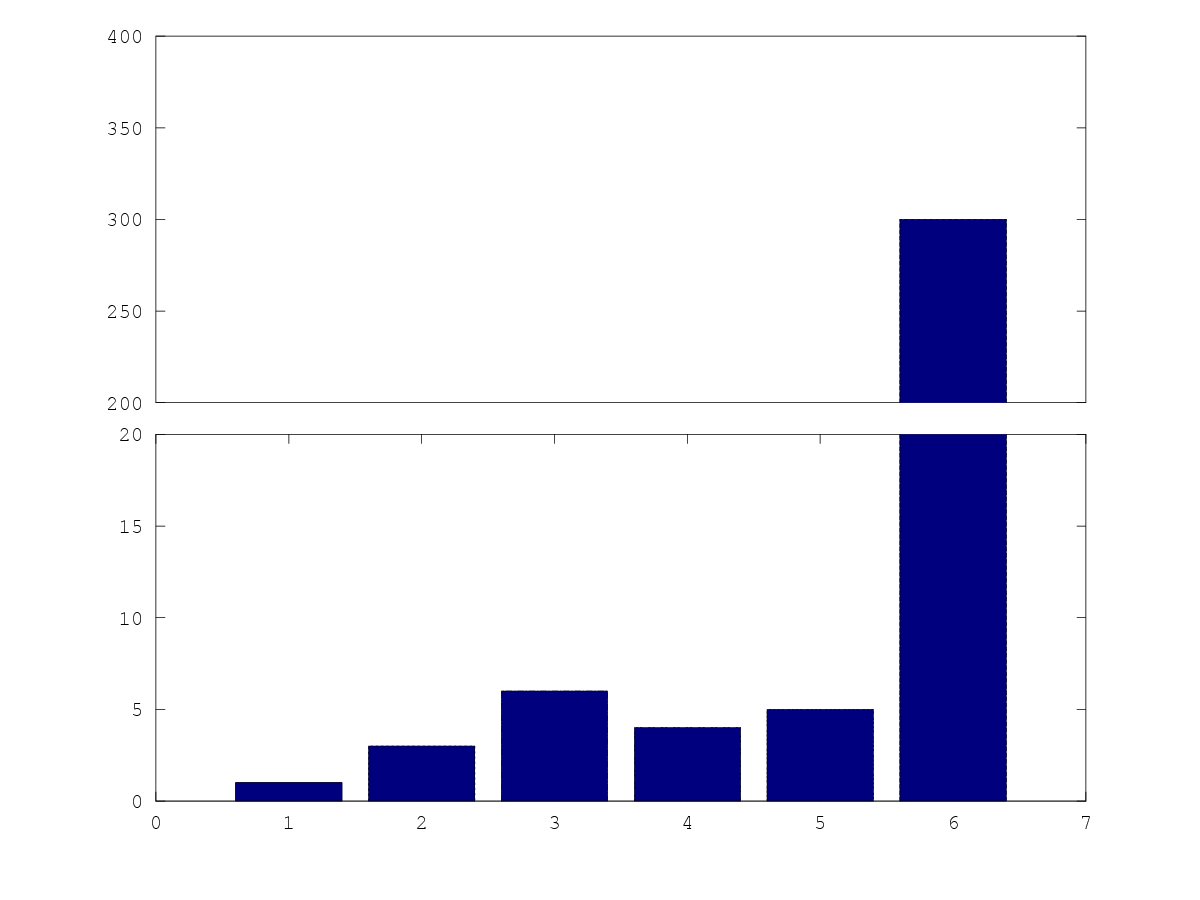
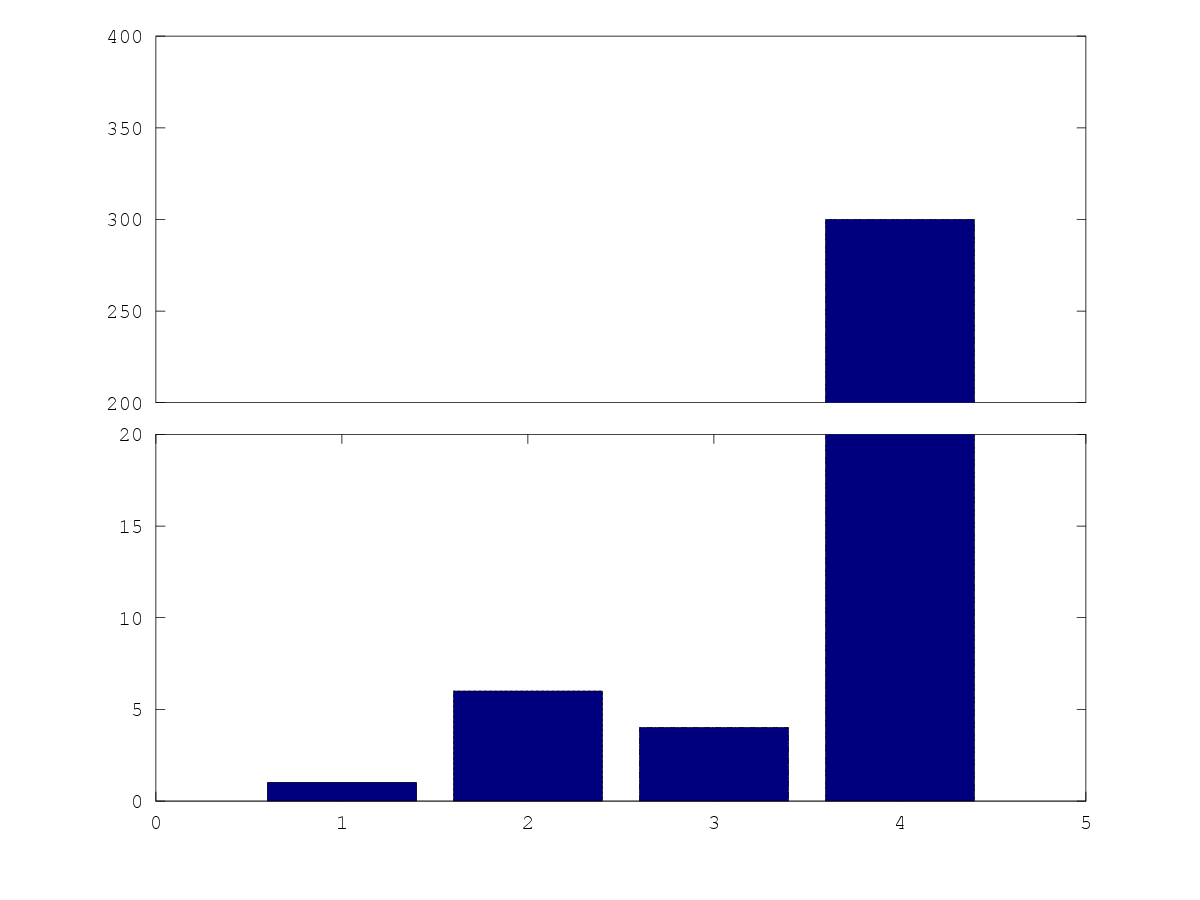
break_axis.m

diff --git a/break_axis.m b/break_axis.m
@@ -1,4 +1,5 @@
-a=[1 3 6 4 5 300];
+a=[1 6 4 300];
+x = ['PRECOPY', 'POSTCOPY', 'HYBRID', 'PRO-HYBRID'];
 
 ylim1=[0 20];
 %ylim2=[100 300];
